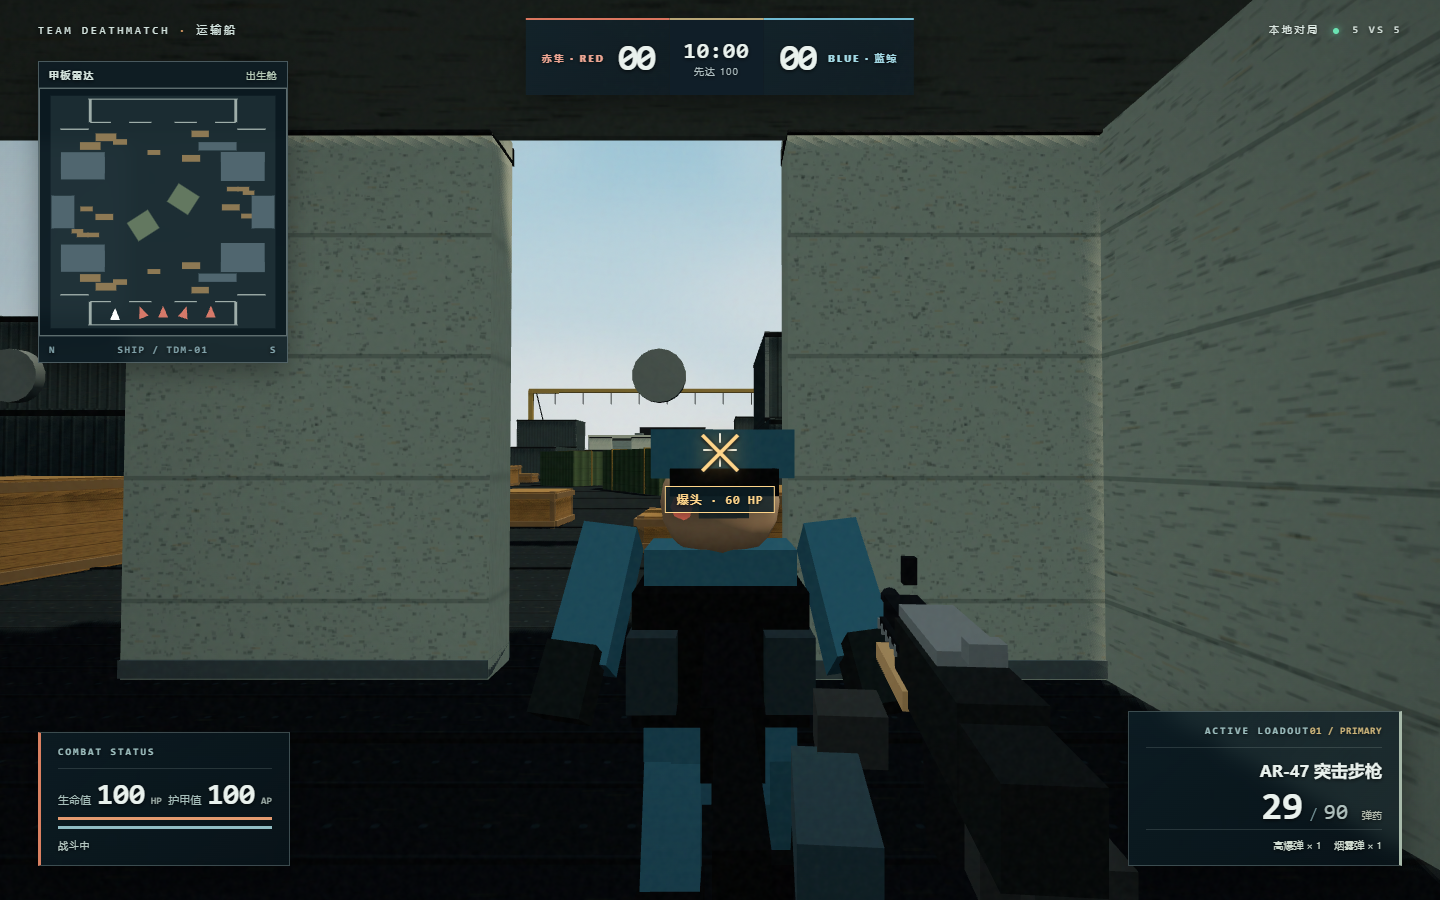
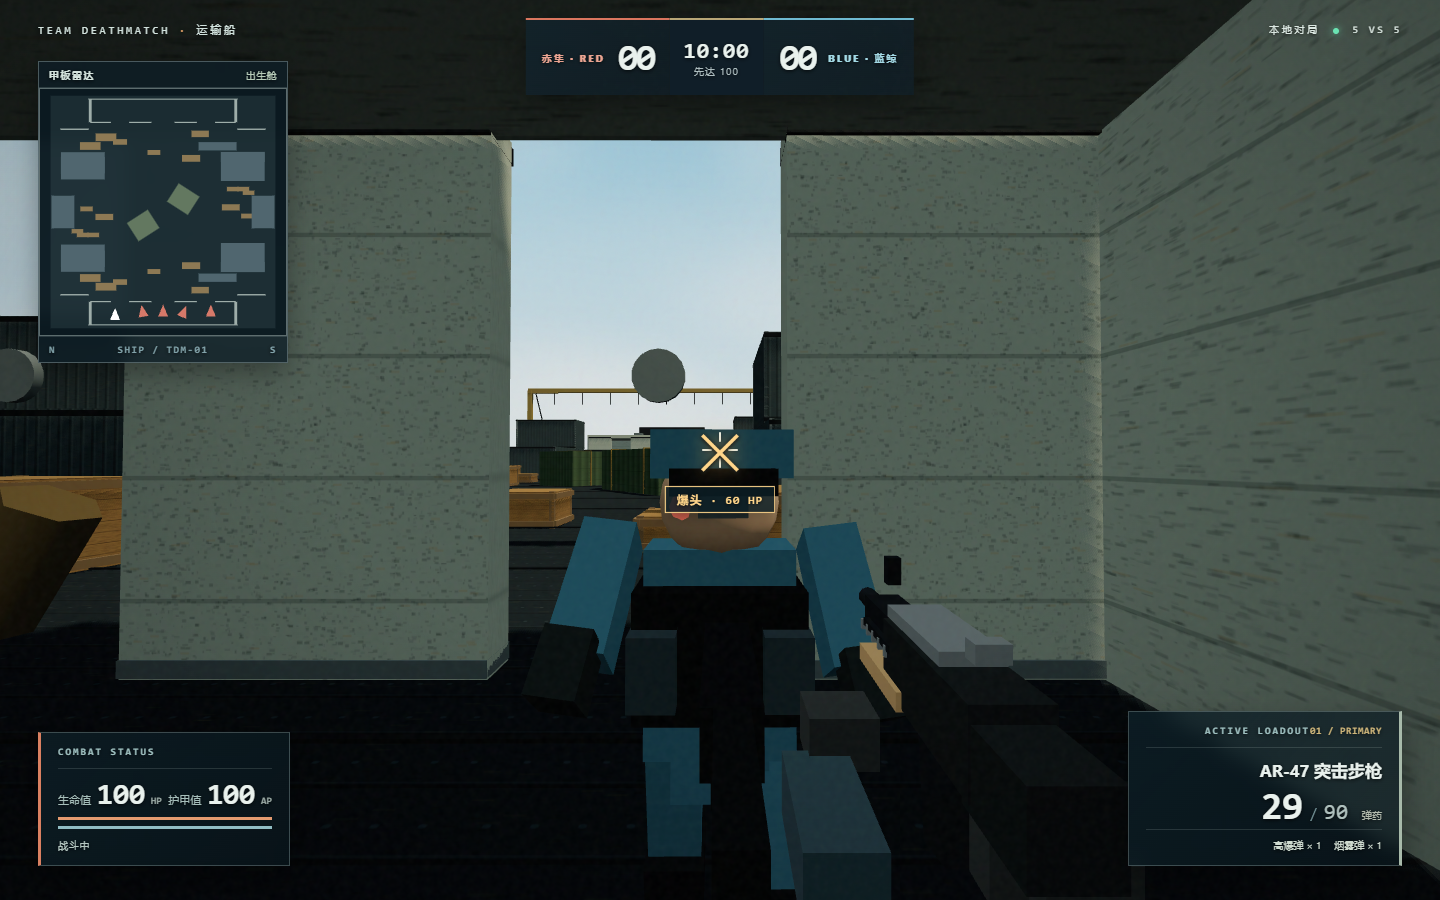
fix: align strafe and animate scope with expiring feedback

diff --git a/tasks/cf-transport-ship/solution/src/ui.ts b/tasks/cf-transport-ship/solution/src/ui.ts
@@ -45,7 +45,7 @@ export class UI {
         <div id="kill-feed" class="kill-feed"></div>
         <div id="crosshair" class="crosshair"><i class="ch up"></i><i class="ch down"></i><i class="ch left"></i><i class="ch right"></i><i class="ch center"></i></div>
         <div id="hit-marker" class="hit-marker hidden">✕</div><div id="hit-detail" class="hit-detail hidden"></div><div id="kill-marker" class="kill-marker hidden" role="status" aria-live="polite"><span>◆ 击杀确认</span><strong id="kill-name"></strong><small id="kill-count"></small></div>
-        <div id="scope" class="scope hidden"><div class="scope-circle"><div class="scope-v"></div><div class="scope-h"></div><div class="scope-dot"></div><span class="scope-range">M90 / ×6</span></div></div>
+        <div id="scope" class="scope hidden"><div id="scope-circle" class="scope-circle"><div class="scope-v"></div><div class="scope-h"></div><div class="scope-dot"></div><span class="scope-range">M90 / ×6</span></div></div>
         <div class="hud-bottom left"><div class="side-caption">COMBAT STATUS</div><div class="vitals"><div><span>生命值</span><strong id="hp-value">100</strong><small>HP</small></div><div><span>护甲值</span><strong id="armor-value">100</strong><small>AP</small></div></div><div class="meter"><span id="hp-meter"></span></div><div class="meter armor"><span id="armor-meter"></span></div><div id="status-text" class="status-text">战斗准备就绪</div></div>
         <div class="hud-bottom right"><div class="side-caption">ACTIVE LOADOUT <span id="slot-number">01 / PRIMARY</span></div><div class="weapon-name" id="weapon-name">AR-47 突击步枪</div><div class="ammo-line"><strong id="mag-value">30</strong><span>/</span><b id="reserve-value">90</b><small id="ammo-label">弹药</small></div><div class="inventory"><span id="he-count">高爆弹 × 1</span><span id="smoke-count">烟雾弹 × 1</span></div></div>
         <div id="debug" class="debug hidden"></div>
@@ -120,10 +120,15 @@ export class UI {
   }
   setScoreboard(visible: boolean) { this.el('scoreboard').classList.toggle('hidden', !visible); }
   toast(message: string) { this.el('toast').textContent = message; this.el('toast').classList.remove('hidden'); window.setTimeout(() => this.el('toast').classList.add('hidden'), 3600); }
+  resetMatchFeedback() {
+    this.hitUntil = 0; this.killUntil = 0; this.feed = []; this.reveals = []; this.lastHud = -1;
+    this.el('hit-marker').classList.add('hidden'); this.el('hit-detail').classList.add('hidden'); this.el('kill-marker').classList.add('hidden');
+    this.el('kill-feed').innerHTML = '';
+  }
   consume(events: GameEvent[], game: Game) {
     for (const e of events) {
       if (e.type === 'hit' && e.actor === game.player.id && e.target !== game.player.id && e.amount && e.amount > 0) {
-        this.hitUntil = game.now + .48;
+        this.hitUntil = performance.now() + 480;
         const marker = this.el('hit-marker'), detail = this.el('hit-detail');
         marker.classList.toggle('headshot', e.zone === 'head');
         detail.classList.toggle('headshot', e.zone === 'head');
@@ -138,7 +143,7 @@ export class UI {
         const killer = game.getActor(e.actor!)!, victim = game.getActor(e.target!)!;
         if (killer && victim) this.feed.unshift({ html: `<span class="${killer.team}">${esc(killer.name)}</span><b>${esc(e.text || '击杀')}</b><span class="${victim.team}">${esc(victim.name)}</span>`, until: game.now + 5 });
         if (killer?.id === game.player.id && victim?.id !== game.player.id) {
-          this.killUntil = game.now + 2.2;
+          this.killUntil = performance.now() + 2200;
           this.el('kill-name').textContent = victim.name;
           this.el('kill-count').textContent = `+1 击杀 · 本局 ${killer.kills}`;
           const marker = this.el('kill-marker'); marker.classList.remove('hidden');
@@ -154,14 +159,19 @@ export class UI {
     this.feed = this.feed.filter(f => f.until > game.now).slice(0, 5);
     this.reveals = this.reveals.filter(r => r.until > game.now).slice(-15);
   }
-  update(game: Game) {
+  update(game: Game, aimProgress = 0) {
     if (!game.actors.length) return;
     const player = game.player;
-    this.el('hit-marker').classList.toggle('hidden', game.now >= this.hitUntil);
-    this.el('hit-detail').classList.toggle('hidden', game.now >= this.hitUntil);
-    this.el('kill-marker').classList.toggle('hidden', game.now >= this.killUntil);
-    this.el('scope').classList.toggle('hidden', !(player.alive && player.ads && player.selected === 'longshot'));
-    this.el('crosshair').classList.toggle('hidden', !player.alive || (player.ads && player.selected === 'longshot'));
+    const feedbackNow = performance.now();
+    this.el('hit-marker').classList.toggle('hidden', feedbackNow >= this.hitUntil);
+    this.el('hit-detail').classList.toggle('hidden', feedbackNow >= this.hitUntil);
+    this.el('kill-marker').classList.toggle('hidden', feedbackNow >= this.killUntil);
+    const scopeBlend = aimProgress * aimProgress * (3 - 2 * aimProgress);
+    this.el('scope').classList.toggle('hidden', !player.alive || aimProgress <= 0);
+    this.el('scope').style.opacity = String(scopeBlend);
+    this.el('scope-circle').style.transform = `scale(${1.18 - .18 * scopeBlend})`;
+    this.el('crosshair').classList.toggle('hidden', !player.alive || aimProgress >= 1);
+    this.el('crosshair').style.opacity = String(1 - scopeBlend);
     const spread = player.selected === 'grenade' || player.selected === 'knife' ? 11 : 7 + player.moving * 1.4 + player.shotCount * 1.8;
     this.el('crosshair').style.setProperty('--gap', `${spread}px`);
     this.el('death').classList.toggle('hidden', player.alive || game.phase === 'ended');

diff --git a/tasks/cf-transport-ship/solution/src/render.ts b/tasks/cf-transport-ship/solution/src/render.ts
@@ -17,6 +17,7 @@ export class GameRenderer {
   private viewModels = new Map<WeaponId, ReturnType<typeof createViewModel>>();
   private grenadeView = new THREE.Group(); private lastWeapon: WeaponId | 'grenade' | '' = '';
   private shotFlashUntil = 0; private lastShot = 0; private lastTime = 0;
+  aimProgress = 0;
   private lastShotOrigins = new Map<number, THREE.Vector3>();
   private cameraDir = new THREE.Vector3();
   private smokeMaterial = new THREE.MeshBasicMaterial({ color: 0x9faeb0, transparent: true, opacity: .16, depthWrite: false, side: THREE.DoubleSide });
@@ -47,7 +48,9 @@ export class GameRenderer {
     this.camera.aspect = width / height; this.viewCamera.aspect = width / height;
     this.camera.updateProjectionMatrix(); this.viewCamera.updateProjectionMatrix();
   }
-  reset() {
+  reset(fov = 78) {
+    this.aimProgress = 0; this.lastTime = 0; this.lastShot = 0; this.shotFlashUntil = 0; this.lastWeapon = '';
+    this.camera.fov = fov; this.camera.updateProjectionMatrix();
     for (const rig of this.humans.values()) { this.scene.remove(rig.root); this.disposeObject(rig.root); }
     this.humans.clear();
     for (const effect of this.effects) { this.scene.remove(effect.mesh); this.disposeObject(effect.mesh, true); }
@@ -77,15 +80,18 @@ export class GameRenderer {
       rig.root.visible = actor.alive || game.now < actor.respawnAt - 1.1;
     }
   }
-  private updateView(game: Game, settings: Settings) {
+  private updateView(game: Game, settings: Settings, frameDt: number) {
     const player = game.player;
     if (!player) return;
     const height = eyeHeight(player.body), movingBob = settings.bob && player.body.grounded ? Math.sin(game.now * (player.moving > .1 ? 10 : 2)) * Math.min(player.moving / 5, 1) * .023 : 0;
     this.camera.position.set(player.body.x, player.body.y + height + movingBob, player.body.z);
     direction(player.yaw, player.pitch, this.cameraDir);
     this.camera.lookAt(this.camera.position.clone().add(this.cameraDir));
-    const targetFov = player.ads && player.selected === 'longshot' ? 24 : settings.fov;
-    this.camera.fov += (targetFov - this.camera.fov) * .22;
+    const aiming = game.phase === 'playing' && player.alive && player.ads && player.selected === 'longshot';
+    const step = Math.min(1, Math.max(0, frameDt) / .3);
+    this.aimProgress = Math.max(0, Math.min(1, this.aimProgress + (aiming ? step : -step)));
+    const aim = this.aimProgress * this.aimProgress * (3 - 2 * this.aimProgress);
+    this.camera.fov = settings.fov + (24 - settings.fov) * aim;
     this.camera.updateProjectionMatrix();
     this.viewCamera.fov = 68; this.viewCamera.updateProjectionMatrix();
     const weapon = player.selected;
@@ -102,13 +108,15 @@ export class GameRenderer {
       const reloadProgress = g.reloadEnd > game.now ? 1 - (g.reloadEnd - game.now) / Math.max(.01, id === 'longshot' ? 2.8 : id === 'revolver' ? 1.7 : id === 'vector' ? 1.84 : 2.2) : 0;
       const recoil = Math.max(0, 1 - (game.now - this.lastShot) * 9);
       const sway = settings.bob ? Math.sin(game.now * 10) * Math.min(player.moving / 5, 1) : 0;
-      model.root.position.set(.42 + sway * .011, -.48 + Math.abs(sway) * .014 - recoil * .04, -1.13 + recoil * .08);
-      model.root.rotation.x = -.08 * recoil + (reloadProgress > 0 ? Math.sin(Math.PI * reloadProgress) * .38 : 0);
+      const scopeLift = id === 'longshot' ? aim : 0;
+      model.root.position.set(.42 + sway * .011 - scopeLift * .36, -.48 + Math.abs(sway) * .014 - recoil * .04 + scopeLift * .2, -1.13 + recoil * .08 + scopeLift * .25);
+      model.root.rotation.x = -.08 * recoil + (reloadProgress > 0 ? Math.sin(Math.PI * reloadProgress) * .38 : 0) - scopeLift * .06;
       model.root.rotation.z = reloadProgress > 0 ? Math.sin(Math.PI * reloadProgress) * -.29 : sway * .006;
+      model.root.rotation.y = scopeLift * -.04;
       model.magazine.position.y = -.14 - (reloadProgress > .3 && reloadProgress < .73 ? Math.sin((reloadProgress - .3) / .43 * Math.PI) * .18 : 0);
       model.leftHand.position.y = -.15 - (reloadProgress > 0 ? Math.sin(Math.PI * reloadProgress) * .11 : 0);
       model.flash.visible = game.now < this.shotFlashUntil;
-      model.root.visible = player.alive && !(player.ads && player.selected === 'longshot');
+      model.root.visible = player.alive && !(id === 'longshot' && this.aimProgress >= .98);
     }
     this.grenadeView.visible = player.alive && weapon === 'grenade';
   }
@@ -168,10 +176,10 @@ export class GameRenderer {
       group.traverse(o => { if (o instanceof THREE.Mesh) (o.material as THREE.MeshBasicMaterial).opacity = .1 * strength; });
     }
   }
-  render(game: Game, settings: Settings, width: number, height: number) {
+  render(game: Game, settings: Settings, width: number, height: number, frameDt = 0) {
     const dt = Math.max(0, game.now - this.lastTime); this.lastTime = game.now;
     if (this.renderer.domElement.width !== Math.floor(width * this.renderer.getPixelRatio()) || this.renderer.domElement.height !== Math.floor(height * this.renderer.getPixelRatio())) this.resize(width, height, settings.quality);
-    if (game.actors.length) { this.syncHumans(game); this.updateView(game, settings); }
+    if (game.actors.length) { this.syncHumans(game); this.updateView(game, settings, frameDt); }
     this.syncGrenades(game); this.syncSmoke(game);
     const seaMat = this.world.sea.material as THREE.ShaderMaterial; seaMat.uniforms.uTime.value = game.now;
     this.world.sky.rotation.y = game.now * .00015;

diff --git a/tasks/cf-transport-ship/solution/src/main.ts b/tasks/cf-transport-ship/solution/src/main.ts
@@ -31,9 +31,9 @@ function requestLock() {
     .catch(() => { pointerRequested = false; game.pause(); ui.showPause(); ui.toast('无法锁定鼠标。请点击页面并允许浏览器的指针锁定。'); });
 }
 function startMatch() {
-  clearInput(); renderer.reset();
+  clearInput(); renderer.reset(settings.fov);
   game.start(ui.team, ui.primary, ui.difficulty, ui.practiceMinutes);
-  endShown = false; accumulator = 0; ui.showGame(); requestLock();
+  endShown = false; accumulator = 0; ui.resetMatchFeedback(); ui.showGame(); requestLock();
 }
 ui.onStart = (team, primary, difficulty, minutes) => { ui.team = team; ui.primary = primary; ui.difficulty = difficulty; ui.practiceMinutes = minutes; startMatch(); };
 ui.onResume = () => { if (game.phase === 'paused') requestLock(); };
@@ -120,8 +120,8 @@ function frame(now: number) {
     }
     if (steps === 7) accumulator = 0;
   } else accumulator = 0;
-  renderer.render(game, settings, innerWidth, innerHeight);
-  if (game.actors.length) ui.update(game);
+  renderer.render(game, settings, innerWidth, innerHeight, elapsed);
+  if (game.actors.length) ui.update(game, renderer.aimProgress);
   if (game.phase === 'ended' && !endShown) { endShown = true; ui.showEnd(game); clearInput(); if (document.pointerLockElement) document.exitPointerLock(); audio.pause(); }
   if (scoreboardHeld && game.phase !== 'playing') ui.setScoreboard(false);
   requestAnimationFrame(frame);

diff --git a/tasks/cf-transport-ship/solution/src/game.ts b/tasks/cf-transport-ship/solution/src/game.ts
@@ -430,7 +430,7 @@ export class Game {
     const speed = this.input.crouch ? 2.25 : this.input.quiet ? 2.8 : a.selected === 'knife' ? 5.25 : 4.65;
     const forward = clamp(this.input.forward, -1, 1), strafe = clamp(this.input.strafe, -1, 1);
     const magnitude = Math.max(1, Math.hypot(forward, strafe));
-    const fx = Math.sin(a.yaw), fz = Math.cos(a.yaw), rx = Math.cos(a.yaw), rz = -Math.sin(a.yaw);
+    const fx = Math.sin(a.yaw), fz = Math.cos(a.yaw), rx = -Math.cos(a.yaw), rz = Math.sin(a.yaw);
     const vx = (fx * forward + rx * strafe) * speed / magnitude;
     const vz = (fz * forward + rz * strafe) * speed / magnitude;
     const wasGrounded = a.body.grounded;

diff --git a/tasks/cf-transport-ship/solution/RESULTS.md b/tasks/cf-transport-ship/solution/RESULTS.md
@@ -4,7 +4,7 @@
 - **完整可用模型标识：** OpenAI `gpt-6-sol`（本次运行界面未提供更细的版本后缀）
 - **候选 ID：** `gpt-6-sol`
 - **起始 `main`：** `7c210c2dd734915419097074108efadec416e2e4`
-- **候选提交：** 原始不可变标签 `candidate/cf-transport-ship/gpt-6-sol` 指向首版提交；本次反馈修订另以不可变修订标签保存。完整对象 SHA 记录在任务分支的导入溯源文件中。提交无法在自身内容里写入自身 SHA 而保持 SHA 不变。
+- **候选提交：** 原始不可变标签 `candidate/cf-transport-ship/gpt-6-sol` 指向首版提交；后续修订分别以不可变修订标签保存。完整对象 SHA 记录在任务分支的导入溯源文件中。提交无法在自身内容里写入自身 SHA 而保持 SHA 不变。
 - **工作区：** 独立克隆 `.runs/cf-transport-ship/gpt-6-sol/`，代码仅写在 `tasks/cf-transport-ship/solution/`；根检出一直保持 `main`。
 
 ## 实施结果
@@ -57,3 +57,20 @@ Windows 11 企业版 `10.0.26200`，Intel Core Ultra 9 285H；系统枚举 GameV
 | `TEST_URL=http://127.0.0.1:4175/cf-transport-ship/gpt-6-sol/ npm run test:e2e` | 退出 0；十人开局、指针锁定、移动、射击和 Esc 暂停仍通过，0 页面错误、0 外部请求。 |
 
 以上生产子路径验证由 `npm run preview -- --base=/cf-transport-ship/gpt-6-sol/ --outDir=dist-subpath --port=4175 --strictPort` 托管。自动化浏览器用 SwiftShader，合成音已接入命中和击杀事件，但听感仍需桌面人工试听；没有新增运行时依赖。
+
+## 2026-09-29 横移、开镜与提示生命周期修订
+
+仍沿用起始 `main` 提交 `7c210c2dd734915419097074108efadec416e2e4` 的同一隔离候选克隆。浏览器修复前复现：面朝 +Z 时按 D 向世界 +X 移动，与屏幕右侧相反；狙击开镜遮罩从隐藏瞬间变为不透明，武器立即消失；命中提示在暂停 0.85 秒后仍显示，击杀提示重新开局且比分重置为 0 后仍显示。修订将 A/D 的横向基向量与镜头右方向对齐；狙击镜圈、FOV 和武器位置按约 0.3 秒连续过渡；反馈改用真实经过时间到期，并在新对局清空旧提示和击杀列表。
+
+在 `solution/` 下实际执行：
+
+| 命令 | 实测结果 |
+| --- | --- |
+| `TEST_URL=http://127.0.0.1:5175/ node scripts/controls-feedback-e2e.mjs` | 修复前退出 1，采到 D 向 +X、遮罩立即不透明、暂停和重开后提示保留；修复后退出 0。初版测试靶位未命中而等待超时，调整为先前验证过的清晰射线后完成有效复现。 |
+| `npm run typecheck`、`npm test`、`npm run build` | 均退出 0；12 项现有测试通过，Vite 仍有 >500 kB 包体非阻断警告。 |
+| `npm run build -- --base=/cf-transport-ship/gpt-6-sol/ --outDir=dist-subpath --emptyOutDir` | 退出 0；子路径资源构建正确。 |
+| `TEST_URL=http://127.0.0.1:4175/cf-transport-ship/gpt-6-sol/ node scripts/controls-feedback-e2e.mjs` | 退出 0；D 为 -X、A 为 +X；开镜早期遮罩透明度 0.68、FOV 41.3°、武器仍可见，完成后为 1 / 24° / 武器隐藏；退镜早期透明度 0.65，结束后 0。暂停后命中提示消失，重新开始后击杀提示清除，0 页面错误。`evidence/controls-feedback-e2e.json`；人工目视检查 `scope-aimed.png` 和 `scope-closing.png`。 |
+| `TEST_URL=http://127.0.0.1:4175/cf-transport-ship/gpt-6-sol/ node scripts/feedback-e2e.mjs` | 退出 0；原生鼠标方向及真实两次弹道命中通过；命中与击杀提示显示后均按真实时间消失，0 页面错误。 |
+| `TEST_URL=http://127.0.0.1:4175/cf-transport-ship/gpt-6-sol/ npm run test:e2e` | 退出 0；10 人开局、锁定、移动、射击、暂停仍通过，0 页面错误、0 外部请求。 |
+
+生产验证由 `npm run preview -- --base=/cf-transport-ship/gpt-6-sol/ --outDir=dist-subpath --port=4175 --strictPort` 托管。自动化 Chromium 使用 SwiftShader；普通桌面 GPU 上的流畅度与狙击动画主观手感仍需人工验收。

diff --git a/tasks/cf-transport-ship/solution/README.md b/tasks/cf-transport-ship/solution/README.md
@@ -26,7 +26,7 @@ npm run preview
 npm run build -- --base=/cf-transport-ship/gpt-6-sol/ --outDir=dist-subpath --emptyOutDir
 ```
 
-把 `dist-subpath/` 部署在对应前缀后直接打开 `.../cf-transport-ship/gpt-6-sol/`。普通构建的 `dist/` 可由任意静态 HTTP 服务器托管。`npm run test:e2e` 使用本机 Playwright Chromium；须先运行开发服务器，可用 `TEST_URL` 指向静态预览地址。`node scripts/feedback-e2e.mjs` 通过浏览器指针锁定验证鼠标方向，并用真实弹道验证命中与击杀反馈，截图保存在 `evidence/feedback-*.png`。`node scripts/visual.mjs` 保存固定机位实机截图；`node scripts/match-run.mjs` 跑两分钟练习局并保存结算与帧时间。测试浏览器使用软件渲染的数据不代表独立显卡帧率。
+把 `dist-subpath/` 部署在对应前缀后直接打开 `.../cf-transport-ship/gpt-6-sol/`。普通构建的 `dist/` 可由任意静态 HTTP 服务器托管。`npm run test:e2e` 使用本机 Playwright Chromium；须先运行开发服务器，可用 `TEST_URL` 指向静态预览地址。`node scripts/feedback-e2e.mjs` 通过浏览器指针锁定验证鼠标方向，并用真实弹道验证命中与击杀反馈，截图保存在 `evidence/feedback-*.png`。`node scripts/controls-feedback-e2e.mjs` 验证 A/D 横移、狙击开镜和退镜动画、暂停后反馈到期及重开后清除，截图保存在 `evidence/scope-*.png`。`node scripts/visual.mjs` 保存固定机位实机截图；`node scripts/match-run.mjs` 跑两分钟练习局并保存结算与帧时间。测试浏览器使用软件渲染的数据不代表独立显卡帧率。
 
 本地预览子路径构建时，预览服务器也需要同一 base：
 
